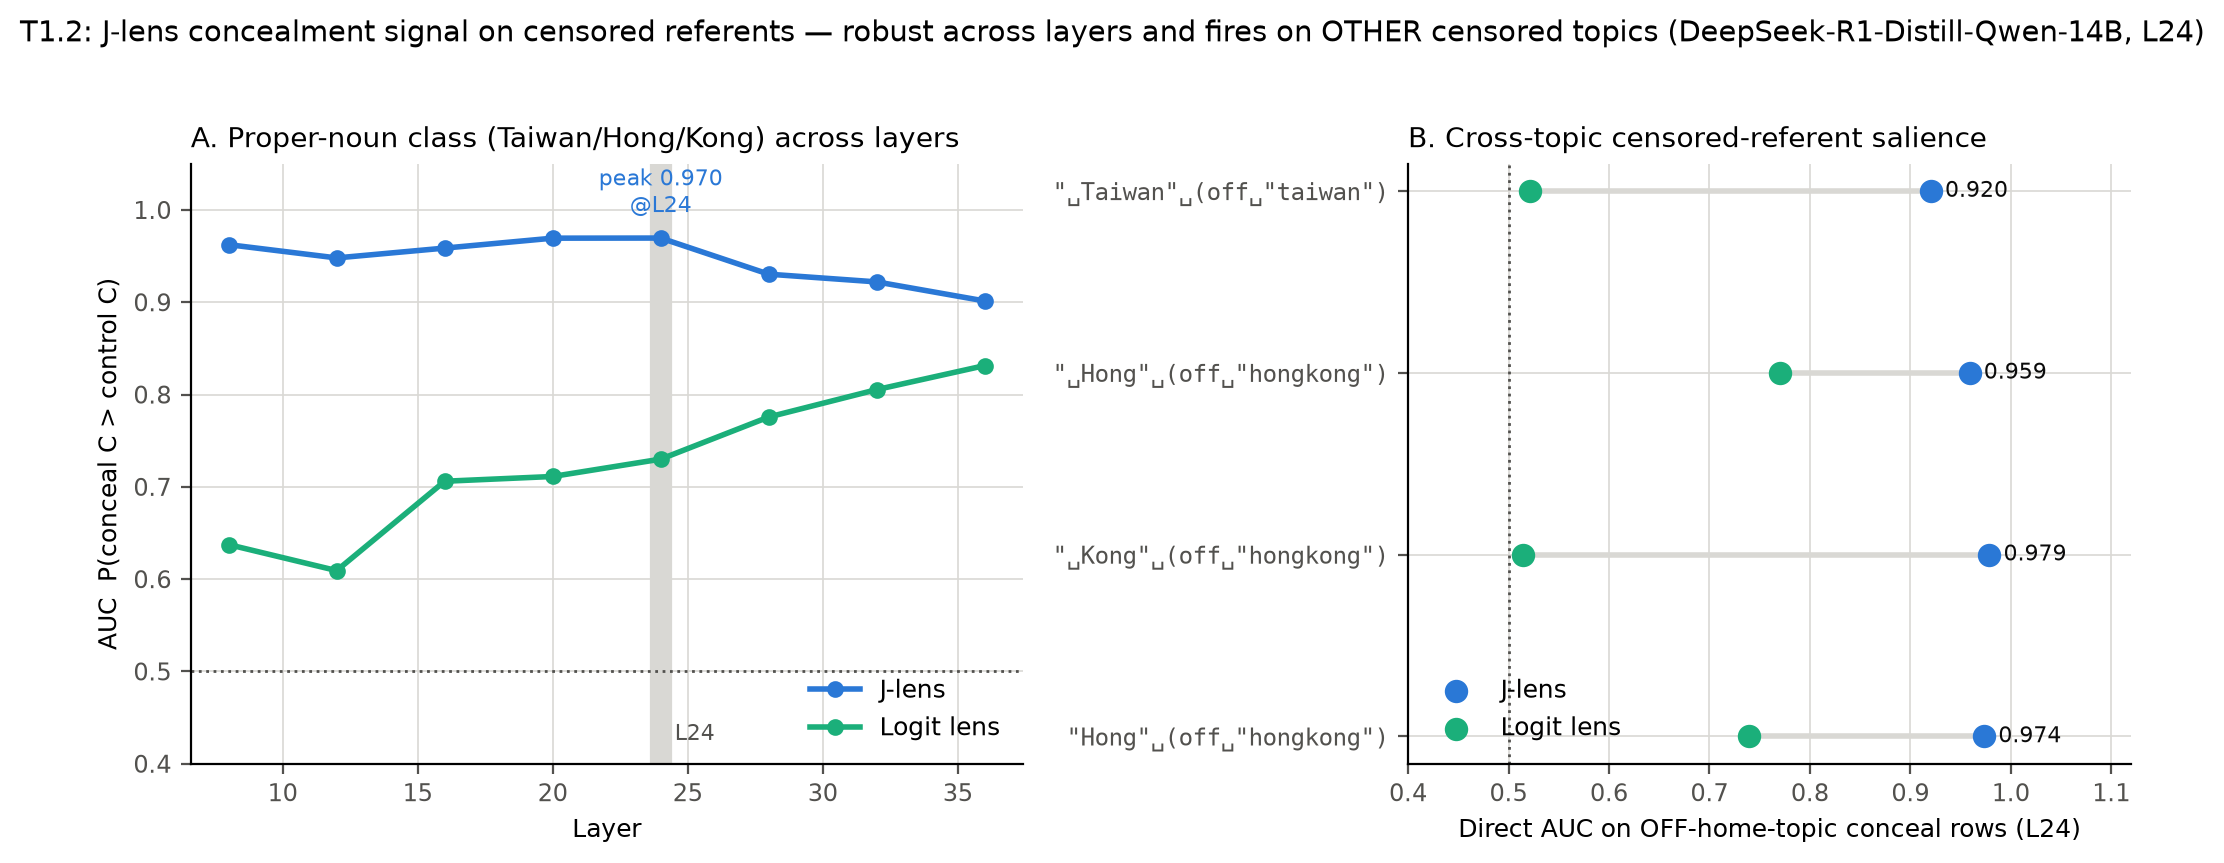
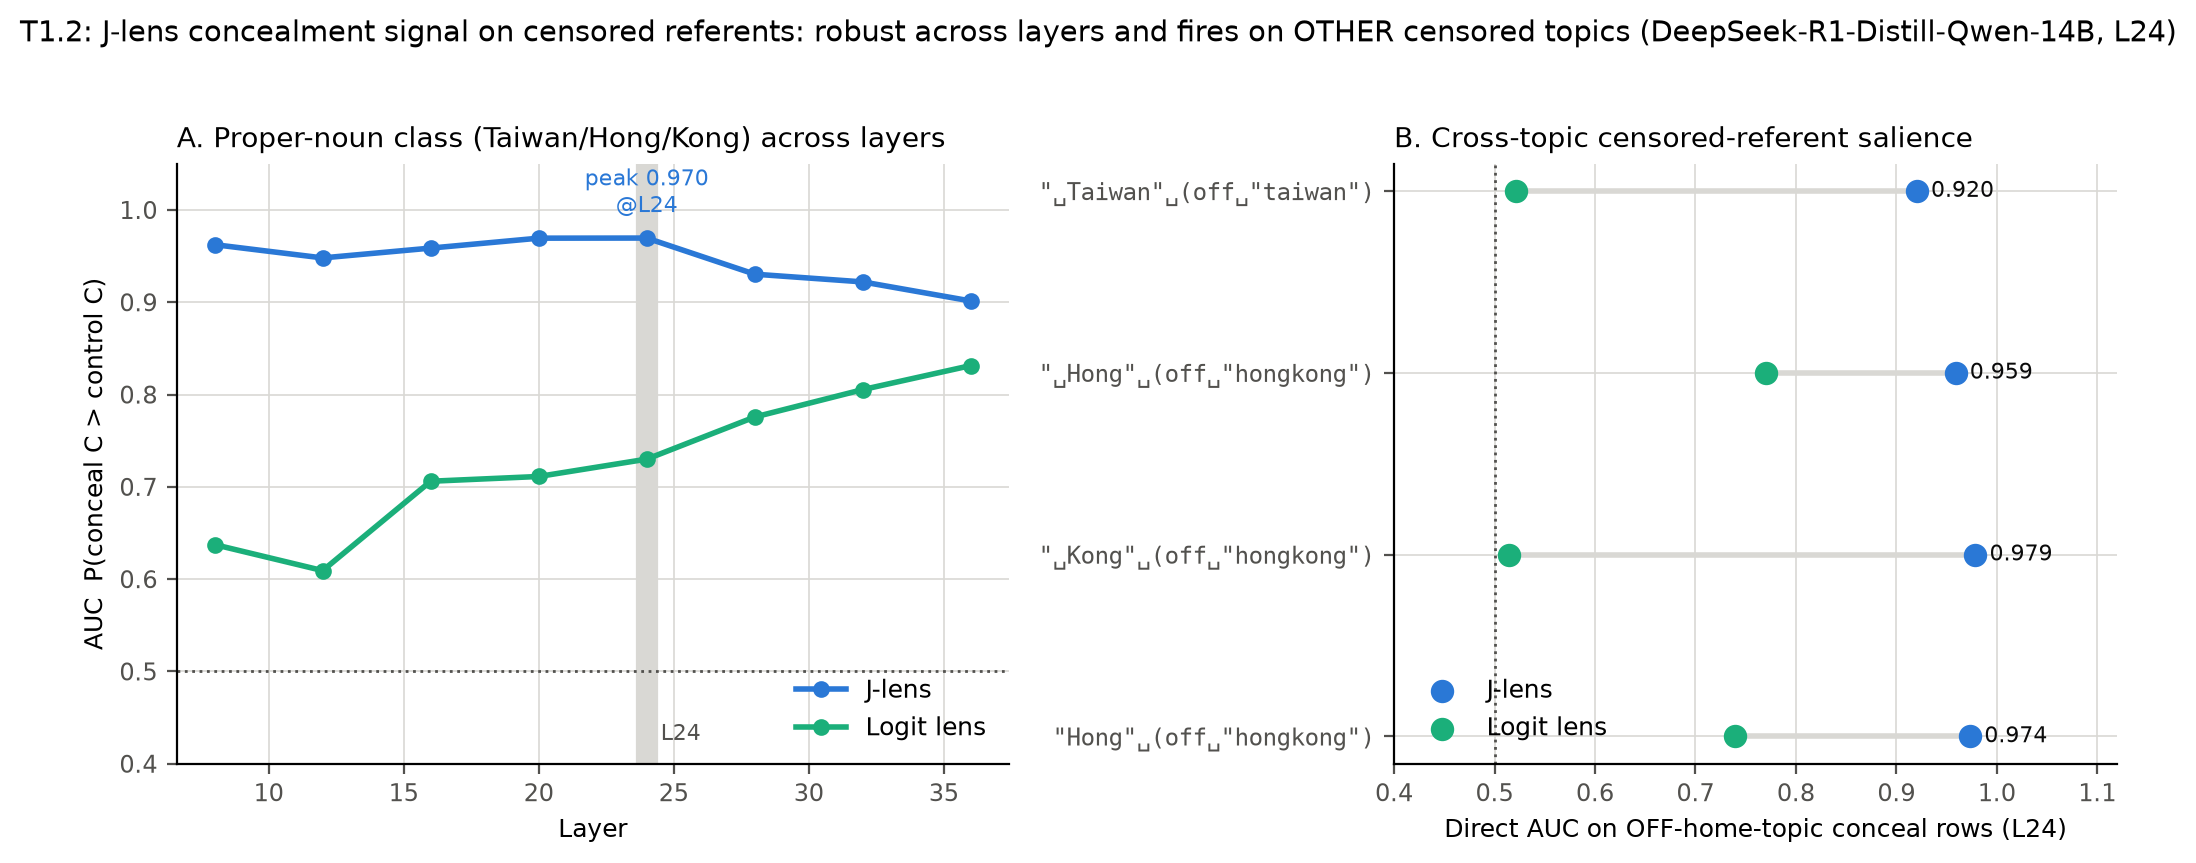
paper(notes): apply decided edits, resolve stale markers; fig fixes
Applies the author's decided edits to the write-up (H1 per-class,
cross-topic and synthesis paragraphs, R1dacted relocation, Appendix
B/C/D/F/G expansions, small fixes) and clears the stale markers those
edits were attached to.

Also: removes em dashes from rendered graph text across exp/fig_*.py (never use them
in on-figure titles/labels — see the project conventions), relabels Figure 6's panels C/D since
Figure 5 already uses A/B.

diff --git a/exp/fig_status_contrast.py b/exp/fig_status_contrast.py
@@ -36,6 +36,41 @@ INK2 = "#52514e"
 GRID = "#d9d8d4"
 
 
+def _stagger(items, base, step, dx_step=30, gap_thresh=0.5):
+    """Fan out a (dx, dy) label offset per (label, value), but only within
+    clusters of points closer together (in data x) than `gap_thresh` — an
+    isolated point keeps a plain offset directly above/below its marker, and
+    only genuinely crowded runs (e.g. several sovereign states within ~1 unit
+    of each other) get fanned both vertically and horizontally, since pure
+    vertical staggering isn't enough once points are that close: the rotated
+    text still fans into its neighbour. Returns (labels, values, offsets)
+    where offsets is a list of (dx, dy) tuples, all in the same order as
+    `items`."""
+    n = len(items)
+    order = sorted(range(n), key=lambda i: items[i][1])
+    sign = 1 if base >= 0 else -1
+    clusters, cur = [], [order[0]]
+    for k in range(1, n):
+        if items[order[k]][1] - items[order[k - 1]][1] < gap_thresh:
+            cur.append(order[k])
+        else:
+            clusters.append(cur)
+            cur = [order[k]]
+    clusters.append(cur)
+
+    offsets = [(0.0, 0.0)] * n
+    for cluster in clusters:
+        m = len(cluster)
+        for rank, i in enumerate(cluster):
+            if m == 1:
+                offsets[i] = (0.0, base)
+            else:
+                dy = base + sign * step * rank
+                dx = (rank - (m - 1) / 2) * dx_step
+                offsets[i] = (dx, dy)
+    return [lab for lab, _ in items], [v for _, v in items], offsets
+
+
 def main():
     ap = argparse.ArgumentParser()
     ap.add_argument("--in", dest="inp", default="runs/exp4/status_contrast.json")
@@ -60,19 +95,24 @@ def main():
                 label="known sovereign")
     ax1.scatter([v for _, v in neg], [0] * len(neg), s=60, color=C_NEG, zorder=3,
                 label="known sub-national")
-    for lab, v in pos:
-        ax1.annotate(lab, (v, 1), (0, 9), textcoords="offset points", fontsize=7.5,
-                     color=INK2, ha="center", rotation=45)
-    for lab, v in neg:
-        ax1.annotate(lab, (v, 0), (0, -16), textcoords="offset points", fontsize=7.5,
-                     color=INK2, ha="center", rotation=45)
+    # labels get a unique, monotonically increasing offset in x-sort order so tightly
+    # clustered points (e.g. several sovereign states within ~1 D of each other) don't
+    # render their rotated labels on top of one another.
+    leader = dict(arrowstyle="-", color=INK2, lw=0.5, alpha=0.5,
+                  shrinkA=0, shrinkB=2)
+    for lab, v, off in zip(*_stagger(pos, base=10, step=8)):
+        ax1.annotate(lab, (v, 1), off, textcoords="offset points", fontsize=7.5,
+                     color=INK2, ha="center", rotation=45, arrowprops=leader)
+    for lab, v, off in zip(*_stagger(neg, base=-11, step=8)):
+        ax1.annotate(lab, (v, 0), off, textcoords="offset points", fontsize=7.5,
+                     color=INK2, ha="center", rotation=45, arrowprops=leader)
     ax1.axvline(0, color=INK, lw=1.2)
     ax1.scatter([cal["mean_D_positive_states"]], [1], marker="|", s=900, color=INK, zorder=4)
     ax1.scatter([cal["mean_D_negative_states"]], [0], marker="|", s=900, color=INK, zorder=4)
     ax1.set_yticks([0, 1]); ax1.set_yticklabels(["sub-national\npole", "sovereign\npole"])
     ax1.set_ylim(-0.6, 1.6)
     ax1.set_xlabel("status-contrast  D = A(sovereign) − A(part/province)", fontsize=9)
-    verdict = "PASS — poles separate" if calibrated else "FAIL — poles do not separate"
+    verdict = "PASS: poles separate" if calibrated else "FAIL: poles do not separate"
     ax1.set_title(f"A. Calibration gate: {verdict}\n"
                   f"mean D  sovereign {cal['mean_D_positive_states']:+.2f} · "
                   f"sub-national {cal['mean_D_negative_states']:+.2f}  "
@@ -102,7 +142,7 @@ def main():
         ax2.set_title("B. Taiwan conceal-row D by variant\n"
                       f"base reading: {rd}", fontsize=9.5, loc="left")
     else:
-        ax2.set_title("B. Reading WITHHELD — probe uncalibrated\n"
+        ax2.set_title("B. Reading WITHHELD: probe uncalibrated\n"
                       "(pre-registered: no Taiwan status claim when gate fails)",
                       fontsize=9.5, loc="left")
         ax2.text(0.5, 0.5, "probe DISCARDED\nper pre-registration", transform=ax2.transAxes,
@@ -117,9 +157,9 @@ def main():
     ax1.grid(True, color=GRID, lw=0.6, axis="x")
     ax2.grid(True, color=GRID, lw=0.6, axis="y")
 
-    head = ("T1.4 status-contrast probe D — CALIBRATED"
+    head = ("T1.4 status-contrast probe D: CALIBRATED"
             if calibrated else
-            "T1.4 status-contrast probe D — UNCALIBRATED (discarded per pre-registration)")
+            "T1.4 status-contrast probe D: UNCALIBRATED (discarded per pre-registration)")
     fig.suptitle(f"{head}  (DeepSeek-R1-Distill-Qwen-14B, L{s['layer']})",
                  fontsize=10, y=1.02)
     fig.tight_layout()

diff --git a/exp/fig_status_relzero.py b/exp/fig_status_relzero.py
@@ -38,6 +38,39 @@ INK2 = "#52514e"
 GRID = "#d9d8d4"
 
 
+def _stagger(vals, base, step, dx_step=30, gap_thresh=0.5):
+    """Fan out a (dx, dy) label offset per value, but only within clusters of
+    points closer together (in data x) than `gap_thresh` — an isolated point
+    keeps a plain offset directly above/below its marker, and only genuinely
+    crowded runs get fanned both vertically and horizontally, since pure
+    vertical staggering isn't enough once points are that close: the rotated
+    text still fans into its neighbour. Offsets are returned in the same
+    order as `vals`."""
+    n = len(vals)
+    order = sorted(range(n), key=lambda i: vals[i])
+    sign = 1 if base >= 0 else -1
+    clusters, cur = [], [order[0]]
+    for k in range(1, n):
+        if vals[order[k]] - vals[order[k - 1]] < gap_thresh:
+            cur.append(order[k])
+        else:
+            clusters.append(cur)
+            cur = [order[k]]
+    clusters.append(cur)
+
+    offsets = [(0.0, 0.0)] * n
+    for cluster in clusters:
+        m = len(cluster)
+        for rank, i in enumerate(cluster):
+            if m == 1:
+                offsets[i] = (0.0, base)
+            else:
+                dy = base + sign * step * rank
+                dx = (rank - (m - 1) / 2) * dx_step
+                offsets[i] = (dx, dy)
+    return offsets
+
+
 def main():
     ap = argparse.ArgumentParser()
     ap.add_argument("--in", dest="inp", default="runs/exp4/status_relzero.json")
@@ -68,14 +101,22 @@ def main():
     for key, y, col, lab in rows:
         vals = [x["D"] for x in det[key]]
         ax1.scatter(vals, [y] * len(vals), s=60, color=col, zorder=3, label=lab)
-        for x in det[key]:
-            ax1.annotate(x["label"], (x["D"], y), (0, 9), textcoords="offset points",
-                         fontsize=7.0, color=INK2, ha="center", rotation=45)
+        offsets = _stagger(vals, base=10, step=8)
+        leader = dict(arrowstyle="-", color=INK2, lw=0.5, alpha=0.5,
+                      shrinkA=0, shrinkB=2)
+        for x, off in zip(det[key], offsets):
+            ax1.annotate(x["label"], (x["D"], y), off, textcoords="offset points",
+                         fontsize=7.0, color=INK2, ha="center", rotation=45,
+                         arrowprops=leader)
         ax1.scatter([np.mean(vals)], [y], marker="|", s=900, color=INK, zorder=4)
 
     # theta (the entity-relative zero) and Taiwan reading
     ax1.axvline(theta, color=INK, lw=1.2, ls="--")
-    ax1.annotate(rf"$\theta$={theta:.2f}", (theta, 2.55), fontsize=8.5, color=INK,
+    # Placed in the empty gap to the upper right (no points or legend fall there),
+    # not directly on the dashed line: the sovereign-pole row's label fan (see
+    # _stagger) can reach that high when the cluster is crowded, and the bottom of
+    # the axis is occupied by the legend and the Taiwan reading.
+    ax1.annotate(rf"$\theta$={theta:.2f}", (5.5, 1.5), fontsize=8.5, color=INK,
                  ha="center")
     ax1.scatter([taiwan_D], [-1], marker="D", s=70, color=C_TAIWAN, zorder=5,
                 label="Taiwan (conceal mean)")
@@ -87,7 +128,7 @@ def main():
     ax1.set_ylim(-1.7, 2.9)
     ax1.set_xlabel(r"status-contrast  D = A(independent/sovereign) $-$ A(part/province)",
                    fontsize=9)
-    verdict = "PASS — clean poles separate" if gate else "FAIL"
+    verdict = "PASS: clean poles separate" if gate else "FAIL"
     ax1.set_title(
         f"A. Entity-relative-zero gate: {verdict}\n"
         f"clean sovereign min {base['clean_pos_minD']:.2f} > clean province max "
@@ -121,7 +162,7 @@ def main():
     ax1.grid(True, color=GRID, lw=0.6, axis="x")
     ax2.grid(True, color=GRID, lw=0.6, axis="y")
 
-    fig.suptitle("Repaired status-contrast probe — entity-relative zero (CALIBRATES)  "
+    fig.suptitle("Repaired status-contrast probe: entity-relative zero (CALIBRATES)  "
                  f"(DeepSeek-R1-Distill-Qwen-14B, L{s['layer']})", fontsize=10, y=1.02)
     fig.tight_layout()
     fig.savefig(args.out, dpi=200, bbox_inches="tight", facecolor="white")

diff --git a/exp/fig_h3_robustness.py b/exp/fig_h3_robustness.py
@@ -1,0 +1,88 @@
+"""Figure 6: the H3 robustness decider — control-token normalization + layer sweep.
+
+Reads runs/exp3/h3_robustness_clean.json (committed) and renders the paper's Figure 6:
+the belief/base C ratio on Taiwan-anchor tokens against two control groups (Check 1),
+and the same rise checked across layers 8-36 (Check 3). CPU-only, no model needed.
+
+This is a standalone plotting script mirroring _make_figure() in exp/exp3b_robustness.py
+(which requires a GPU + adapters to produce the underlying JSON) so the figure itself is
+regenerable from the committed JSON alone, matching the other exp/fig_*.py scripts.
+
+Usage: python exp/fig_h3_robustness.py [--in runs/exp3/h3_robustness_clean.json] [--out paper/figures/h3_robustness_clean.png]
+"""
+import argparse
+import json
+
+import matplotlib
+
+matplotlib.use("Agg")
+import matplotlib.pyplot as plt
+
+INK = "#0b0b0b"
+INK2 = "#52514e"
+C_TAIWAN = "#e34948"
+C_INDOMAIN = "#eda100"
+C_CLEAN = "#7f8c8d"
+C_BASE = "#52514e"
+C_BELIEF = "#2a78d6"
+
+
+def main():
+    ap = argparse.ArgumentParser()
+    ap.add_argument("--in", dest="inp", default="runs/exp3/h3_robustness_clean.json")
+    ap.add_argument("--out", default="paper/figures/h3_robustness_clean.png")
+    args = ap.parse_args()
+
+    d = json.load(open(args.inp))
+    c1 = d["check1_control_tokens"]
+    c3 = d["check3_layer_sweep"]
+
+    fig, (ax1, ax2) = plt.subplots(1, 2, figsize=(11, 4.4))
+    fig.patch.set_facecolor("white")
+
+    # --- Panel A: belief/base ratio, Taiwan vs in-domain vs clean control -----
+    labels = ["Taiwan-anchor", "in-domain\npolitical", "clean\nout-of-domain"]
+    ratios = [
+        c1["taiwan_belief_base_ratio"],
+        c1["neutral_indomain_belief_base_ratio"],
+        c1["neutral_clean_belief_base_ratio"],
+    ]
+    colors = [C_TAIWAN, C_INDOMAIN, C_CLEAN]
+    bars = ax1.bar(labels, ratios, color=colors)
+    ax1.axhline(1.0, color=INK, lw=1, ls="--")
+    for b, v in zip(bars, ratios):
+        ax1.text(b.get_x() + b.get_width() / 2, v + 0.01, f"{v:.3f}x",
+                  ha="center", va="bottom", fontsize=9, color=INK)
+    ax1.set_ylabel("belief-LoRA / base  C ratio", fontsize=9)
+    ax1.set_title("C. Control-token normalization", fontsize=10, loc="left")
+    ax1.set_ylim(0.9, max(ratios) * 1.18)
+    for s in ("top", "right"):
+        ax1.spines[s].set_visible(False)
+    ax1.tick_params(colors=INK2, labelsize=8.5)
+
+    # --- Panel B: C vs layer, base and belief ----------------------------------
+    layers = [int(x) for x in c3["layers"]]
+    base_vals = [c3["base"].get(str(L)) for L in layers]
+    belief_vals = [c3["belief"].get(str(L)) for L in layers]
+    ax2.plot(layers, base_vals, "-o", color=C_BASE, lw=2, ms=5, label="base")
+    ax2.plot(layers, belief_vals, "-s", color=C_BELIEF, lw=2, ms=5, label="belief-LoRA")
+    ax2.set_xlabel("layer", fontsize=9)
+    ax2.set_ylabel("C (J-lens, Taiwan-anchor tokens)", fontsize=9)
+    ax2.set_title("D. Layer sweep", fontsize=10, loc="left")
+    ax2.legend(frameon=False, fontsize=9, loc="upper left")
+    for s in ("top", "right"):
+        ax2.spines[s].set_visible(False)
+    ax2.tick_params(colors=INK2, labelsize=8.5)
+
+    fig.suptitle(
+        "Figure 6: the H3 rise survives two robustness checks: it is not a pooling artifact "
+        "and not a single-layer fluke (DeepSeek-R1-Distill-Qwen-14B)",
+        fontsize=10.5, y=1.03,
+    )
+    fig.tight_layout()
+    fig.savefig(args.out, dpi=200, bbox_inches="tight", facecolor="white")
+    print(f"wrote {args.out}")
+
+
+if __name__ == "__main__":
+    main()

diff --git a/exp/fig_benign_china.py b/exp/fig_benign_china.py
@@ -61,8 +61,13 @@ def main():
     ax1.set_xticks(x)
     ax1.set_xticklabels([f'"{a}"'.replace(" ", "␣") for a in anchors], fontfamily="monospace")
     ax1.set_ylabel(f"mean J-lens workspace activation A (L{s['layer']})", fontsize=9)
-    ax1.set_title("A. Anchor salience by arm — benign-China sits near conceal",
+    ax1.set_title("A. Anchor salience by arm: benign-China sits near conceal",
                   fontsize=10, loc="left")
+    # Explicit headroom above the tallest bar+label so the in-axes "upper right"
+    # legend has clear space: the Kong group's bars top out much lower (~9.5) than
+    # Taiwan/Hong's (~12.3), so without this the legend either sits on top of
+    # Kong's labels (if low) or the panel title (if pushed outside the axes).
+    ax1.set_ylim(0, max(neutral + benign + conceal) * 1.32)
     ax1.legend(frameon=False, fontsize=8.5, loc="upper right")
 
     # --- Panel B: association fraction per anchor -----------------------------
@@ -95,7 +100,7 @@ def main():
         ax.set_axisbelow(True)
 
     fig.suptitle(
-        "T1.3: benign-China control — the censored anchor lights up on ordinary China content, "
+        "T1.3: benign-China control: the censored anchor lights up on ordinary China content, "
         "not only under concealment (DeepSeek-R1-Distill-Qwen-14B, L%d)" % s["layer"],
         fontsize=10, y=1.02,
     )

diff --git a/exp/fig_construct_validity.py b/exp/fig_construct_validity.py
@@ -60,7 +60,7 @@ def main():
     ax.set_xticklabels(labels, fontsize=9)
     ax.set_ylabel("emission-prediction AUROC  P(A_w higher when w is next)", fontsize=9)
     ax.set_ylim(0.0, 1.0)
-    ax.set_title("T1.6: the workspace readout predicts token emission — J-lens ≈ logit\n"
+    ax.set_title("T1.6: the workspace readout predicts token emission: J-lens ≈ logit\n"
                  "(comparable readout quality ⇒ H1's win is the conflict signal, not the readout)",
                  fontsize=10, loc="left")
     ax.legend(frameon=False, fontsize=9, loc="upper right")

diff --git a/exp/fig_h1_instrumented.py b/exp/fig_h1_instrumented.py
@@ -106,7 +106,7 @@ def main():
         ax.set_axisbelow(True)
 
     fig.suptitle(
-        "T1.2: J-lens concealment signal on censored referents — robust across layers and "
+        "T1.2: J-lens concealment signal on censored referents: robust across layers and "
         "fires on OTHER censored topics (DeepSeek-R1-Distill-Qwen-14B, L%d)" % primary,
         fontsize=10.5, y=1.02,
     )
